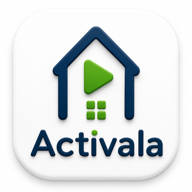
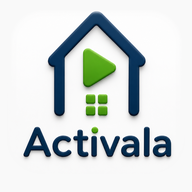
Iconos a sangre (Por dónde voy, Acumula, Activala) y un poco de relieve en los marcos del Grupo Saneas; icono del iPhone a sangre, sin el marco azul

Changed region(s): [[0.0625, 0.0312, 0.9375, 0.9688], [0.0625, 0.3125, 0.0938, 0.3438]]

diff --git a/js/24-grupo-saneas.js b/js/24-grupo-saneas.js
@@ -122,7 +122,9 @@ var GrupoSaneas = (function(){
   }
 
   function porId(id){ var l=todas(); for(var i=0;i<l.length;i++) if(l[i].id===id) return l[i]; return null; }
-  function src(m){ return m.logo ? (CFG.logos+m.logo) : ''; }
+  // ?v= en los iconos: al cambiar uno (16/10/2026, iconos a sangre) nadie se queda con el viejo en caché
+  var LOGOS_V = '2';
+  function src(m){ return m.logo ? (CFG.logos+m.logo+'?v='+LOGOS_V) : ''; }
   // Marcas sin PNG (los sub-productos): baldosa naranja con dos figuras,
   // una detrás de otra — se entiende de un vistazo que son personas.
   var SVG_PERSONAS = '<svg viewBox="0 0 24 24" fill="none" stroke="#fff" stroke-width="2" '
@@ -173,7 +175,7 @@ var GrupoSaneas = (function(){
       '.gs-qr-pie{font-size:14px;color:#3d4f59;margin:0 6px 16px}',
       '.gs-ir.gs-wa{background:#25D366}',
       '.gs-fila img{width:52px;height:52px;border-radius:14px;object-fit:cover;flex:none;background:#fff;',
-        'box-shadow:0 3px 10px rgba(16,40,48,.12)}',
+        'box-shadow:0 1px 2px rgba(16,40,48,.18),0 4px 12px rgba(16,40,48,.14);outline:1px solid rgba(16,40,48,.10);outline-offset:-1px}',
       '.gs-tx{min-width:0;text-align:left}',
       '.gs-tx b{display:block;font-size:17px;font-weight:800;color:#22313a;line-height:1.25}',
       '.gs-tx span{display:block;font-size:16px;color:#3d4f59;line-height:1.55;margin-top:5px}',
@@ -183,11 +185,11 @@ var GrupoSaneas = (function(){
       '.gs-item{display:flex;flex-direction:column;align-items:center;gap:7px;background:none;border:0;',
         'padding:0;cursor:pointer;font-family:inherit}',
       '.gs-item img{width:60px;height:60px;border-radius:16px;object-fit:cover;background:#fff;',
-        'box-shadow:0 4px 12px rgba(16,40,48,.16)}',
+        'box-shadow:0 1px 2px rgba(16,40,48,.2),0 5px 14px rgba(16,40,48,.16);outline:1px solid rgba(16,40,48,.10);outline-offset:-1px}',
       '.gs-item b{font-size:14px;font-weight:700;color:#22313a;line-height:1.25;text-align:center}',
       '.gs-ficha{text-align:center;padding:6px 4px 2px}',
       '.gs-ficha img{width:96px;height:96px;border-radius:24px;object-fit:cover;background:#fff;',
-        'box-shadow:0 8px 22px rgba(16,40,48,.2)}',
+        'box-shadow:0 2px 4px rgba(16,40,48,.2),0 10px 24px rgba(16,40,48,.2);outline:1px solid rgba(16,40,48,.10);outline-offset:-1px}',
       '.gs-ficha h3{font-size:24px;font-weight:800;color:#22313a;margin:14px 0 8px}',
       '.gs-ficha p{font-size:17px;color:#3d4f59;line-height:1.55;margin:0 6px 18px}',
       '.gs-ir{display:block;background:#3890a4;color:#fff;border:0;border-radius:14px;padding:14px;',

diff --git a/sw.js b/sw.js
@@ -1,4 +1,4 @@
-const CACHE = "pdv-v67";
+const CACHE = "pdv-v68";
 const ASSETS = ["./", "index.html", "rutas.js", "manifest.json", "icon-192.png", "icon-512.png", "quicksand-bold.woff2", "montserrat-bold.woff2", "hanken-grotesk-bold.woff2",
   "js/24-grupo-saneas.js", "js/25-recarga.js", "img/app-saneas-web.png", "img/app-saneas-s.png", "img/app-asesorias.png", "img/app-pordondevoy.png", "img/app-activala.png", "img/app-laora.png", "img/app-acumula.png", "img/app-loro.png", "img/app-trivial.png",
   "planes/", "planes/index.html",
